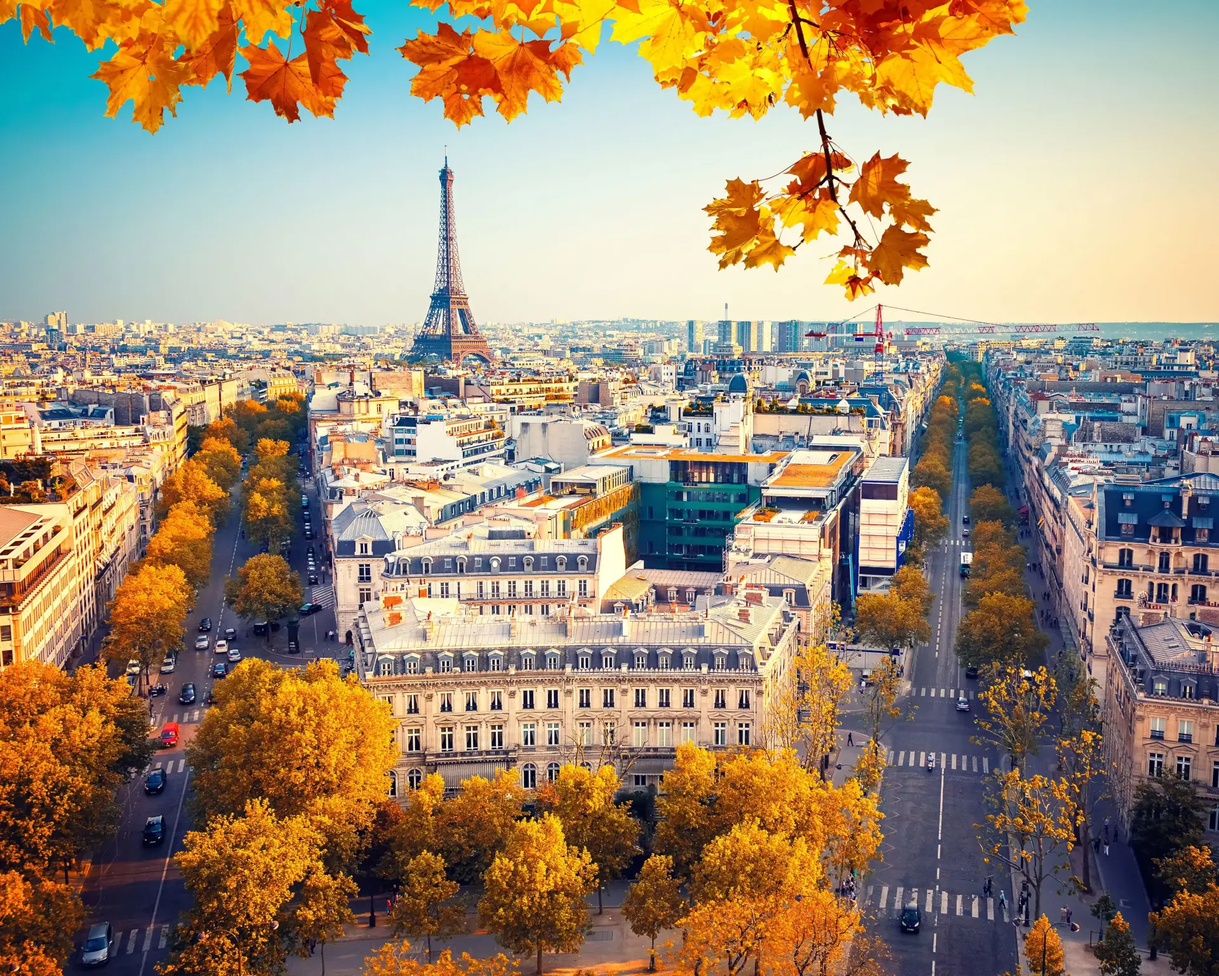
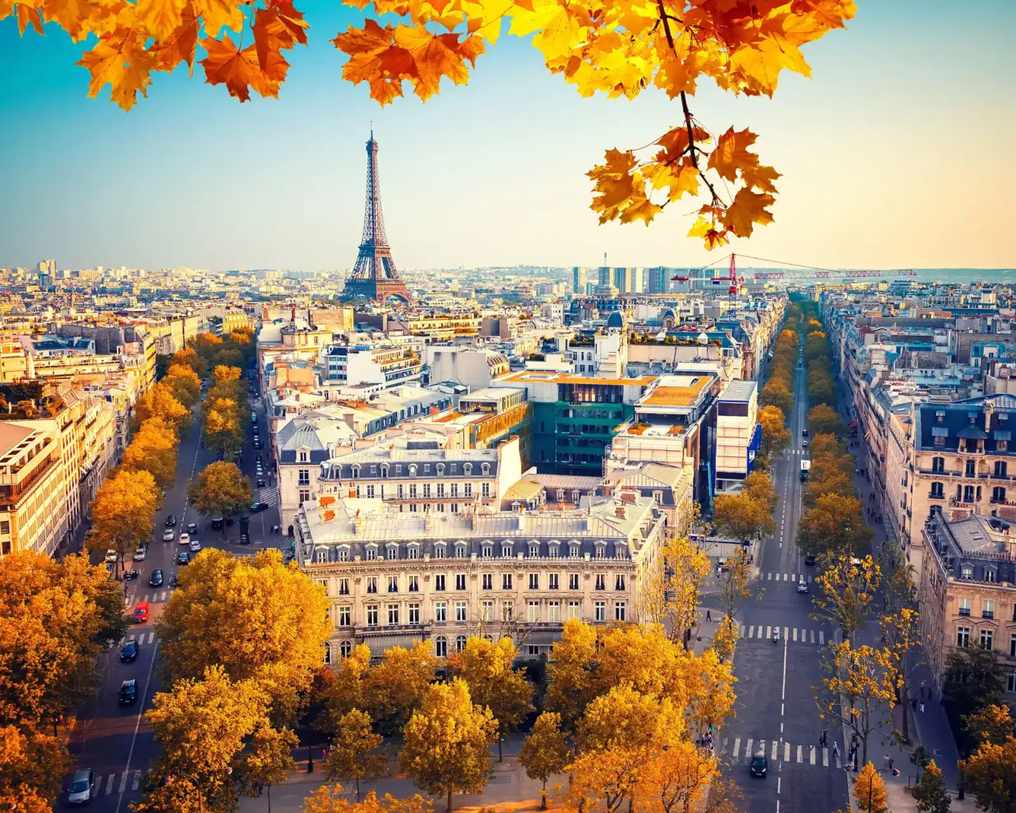
feat: enhance image loading performance by adding fetchpriority and preload for critical assets

diff --git a/resources/views/layouts/main.blade.php b/resources/views/layouts/main.blade.php
@@ -177,13 +177,16 @@
         {{-- amCharts is only used on the homepage map — 310 ms LCP savings --}}
         <link rel="preconnect" href="https://www.amcharts.com">
         {{-- Preload the hero LCP image so the browser fetches it immediately --}}
-        @if($isRtl)
-            <link rel="preload" as="image" fetchpriority="high"
-                  href="{{ asset('assets/img/cities/Paris/paris-slider1.webp') }}">
-        @else
-            <link rel="preload" as="image" fetchpriority="high"
-                  href="{{ asset('assets/img/cities/Paris/paris-slider1.webp') }}">
-        @endif
+        <link rel="preload" as="image" fetchpriority="high"
+              href="{{ asset('assets/img/cities/Paris/paris-slider1.webp') }}">
+    @endif
+
+    {{-- Preload Critical Font Files (reduce CLS and fix font-display penalty) --}}
+    <link rel="preload" href="{{ asset('assets/fonts/boxicons.woff2') }}" as="font" type="font/woff2" crossorigin>
+    <link rel="preload" href="{{ asset('assets/fonts/Flaticon.woff2') }}" as="font" type="font/woff2" crossorigin>
+    @if($isRtl)
+        <link rel="preload" href="{{ asset('assets/fonts/webfonts/Vazirmatn-RD-FD-Regular.woff2') }}" as="font" type="font/woff2" crossorigin>
+        <link rel="preload" href="{{ asset('assets/fonts/webfonts/Vazirmatn-RD-FD-Bold.woff2') }}" as="font" type="font/woff2" crossorigin>
     @endif
 
     @stack('styles')

diff --git a/resources/views/pages/home.blade.php b/resources/views/pages/home.blade.php
@@ -97,7 +97,8 @@
                             <img src="{{asset("assets/img/cities/Paris/paris4.webp")}}"
                                 alt="{{ __('index.about.image_alt') }}"
                                 width="679" height="424"
-                                loading="lazy">
+                                fetchpriority="high"
+                                style="max-width: 100%; height: auto;">
                         </div>
                     </div>
                     <div class="col-lg-6">
